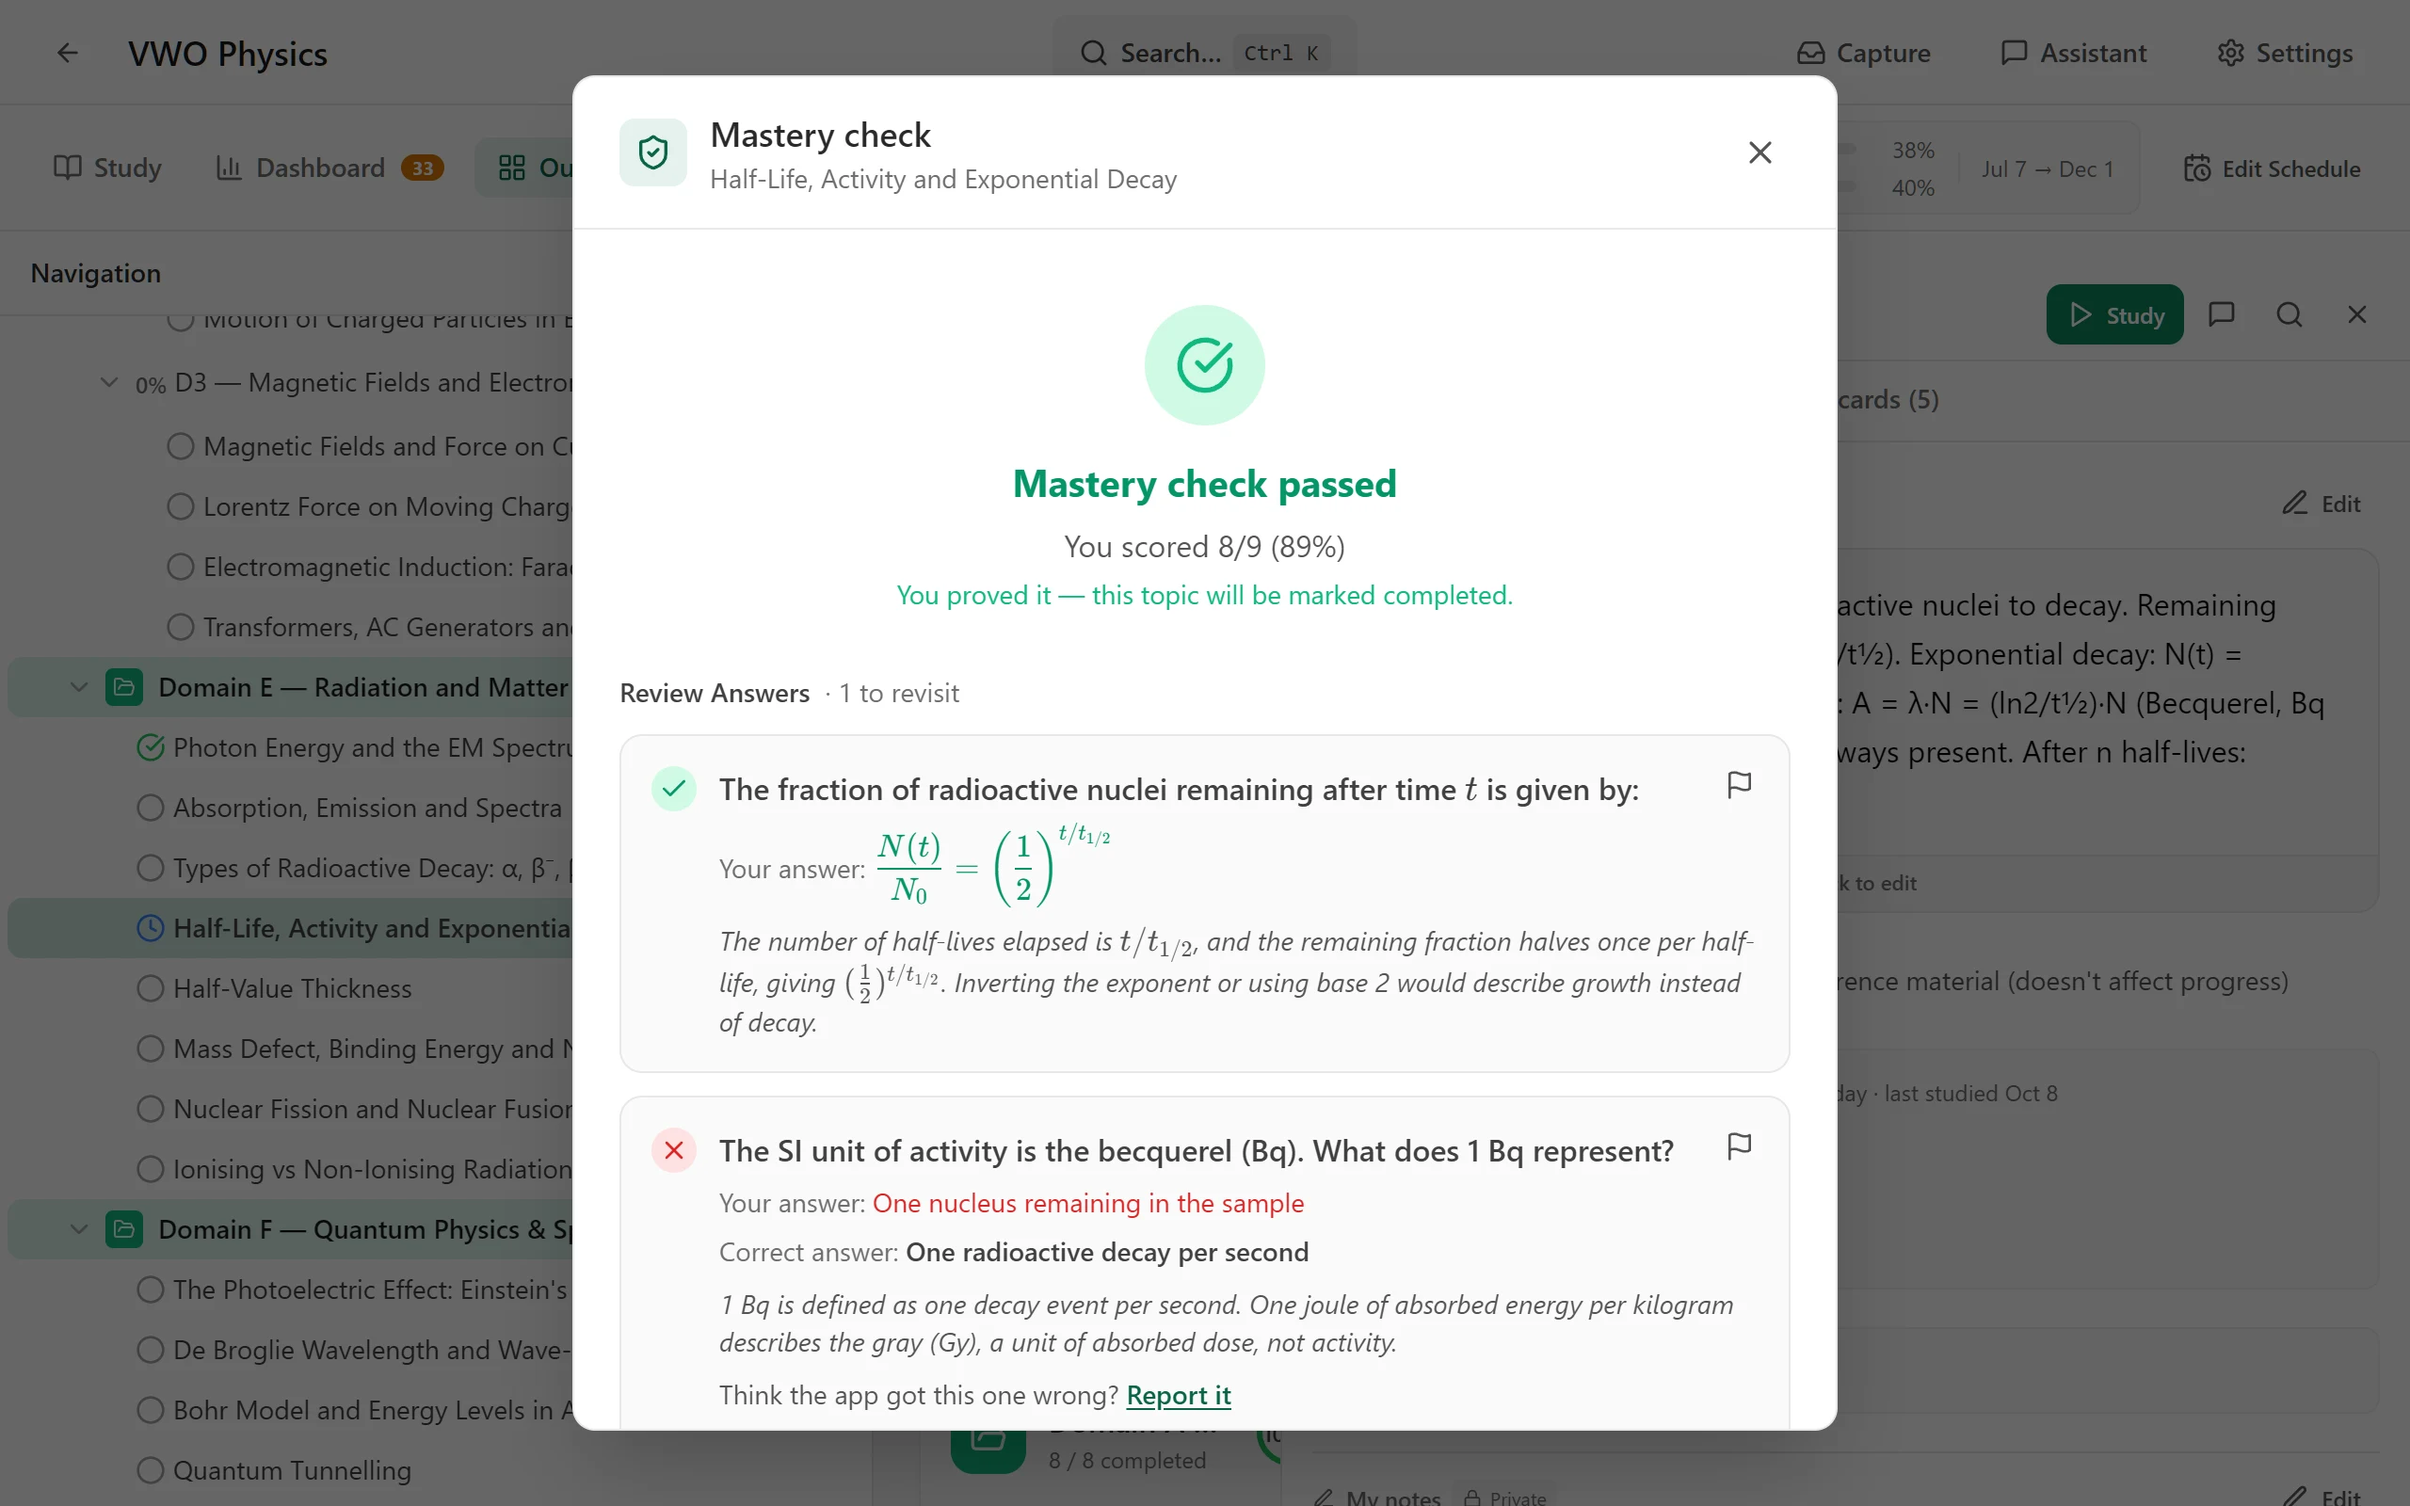
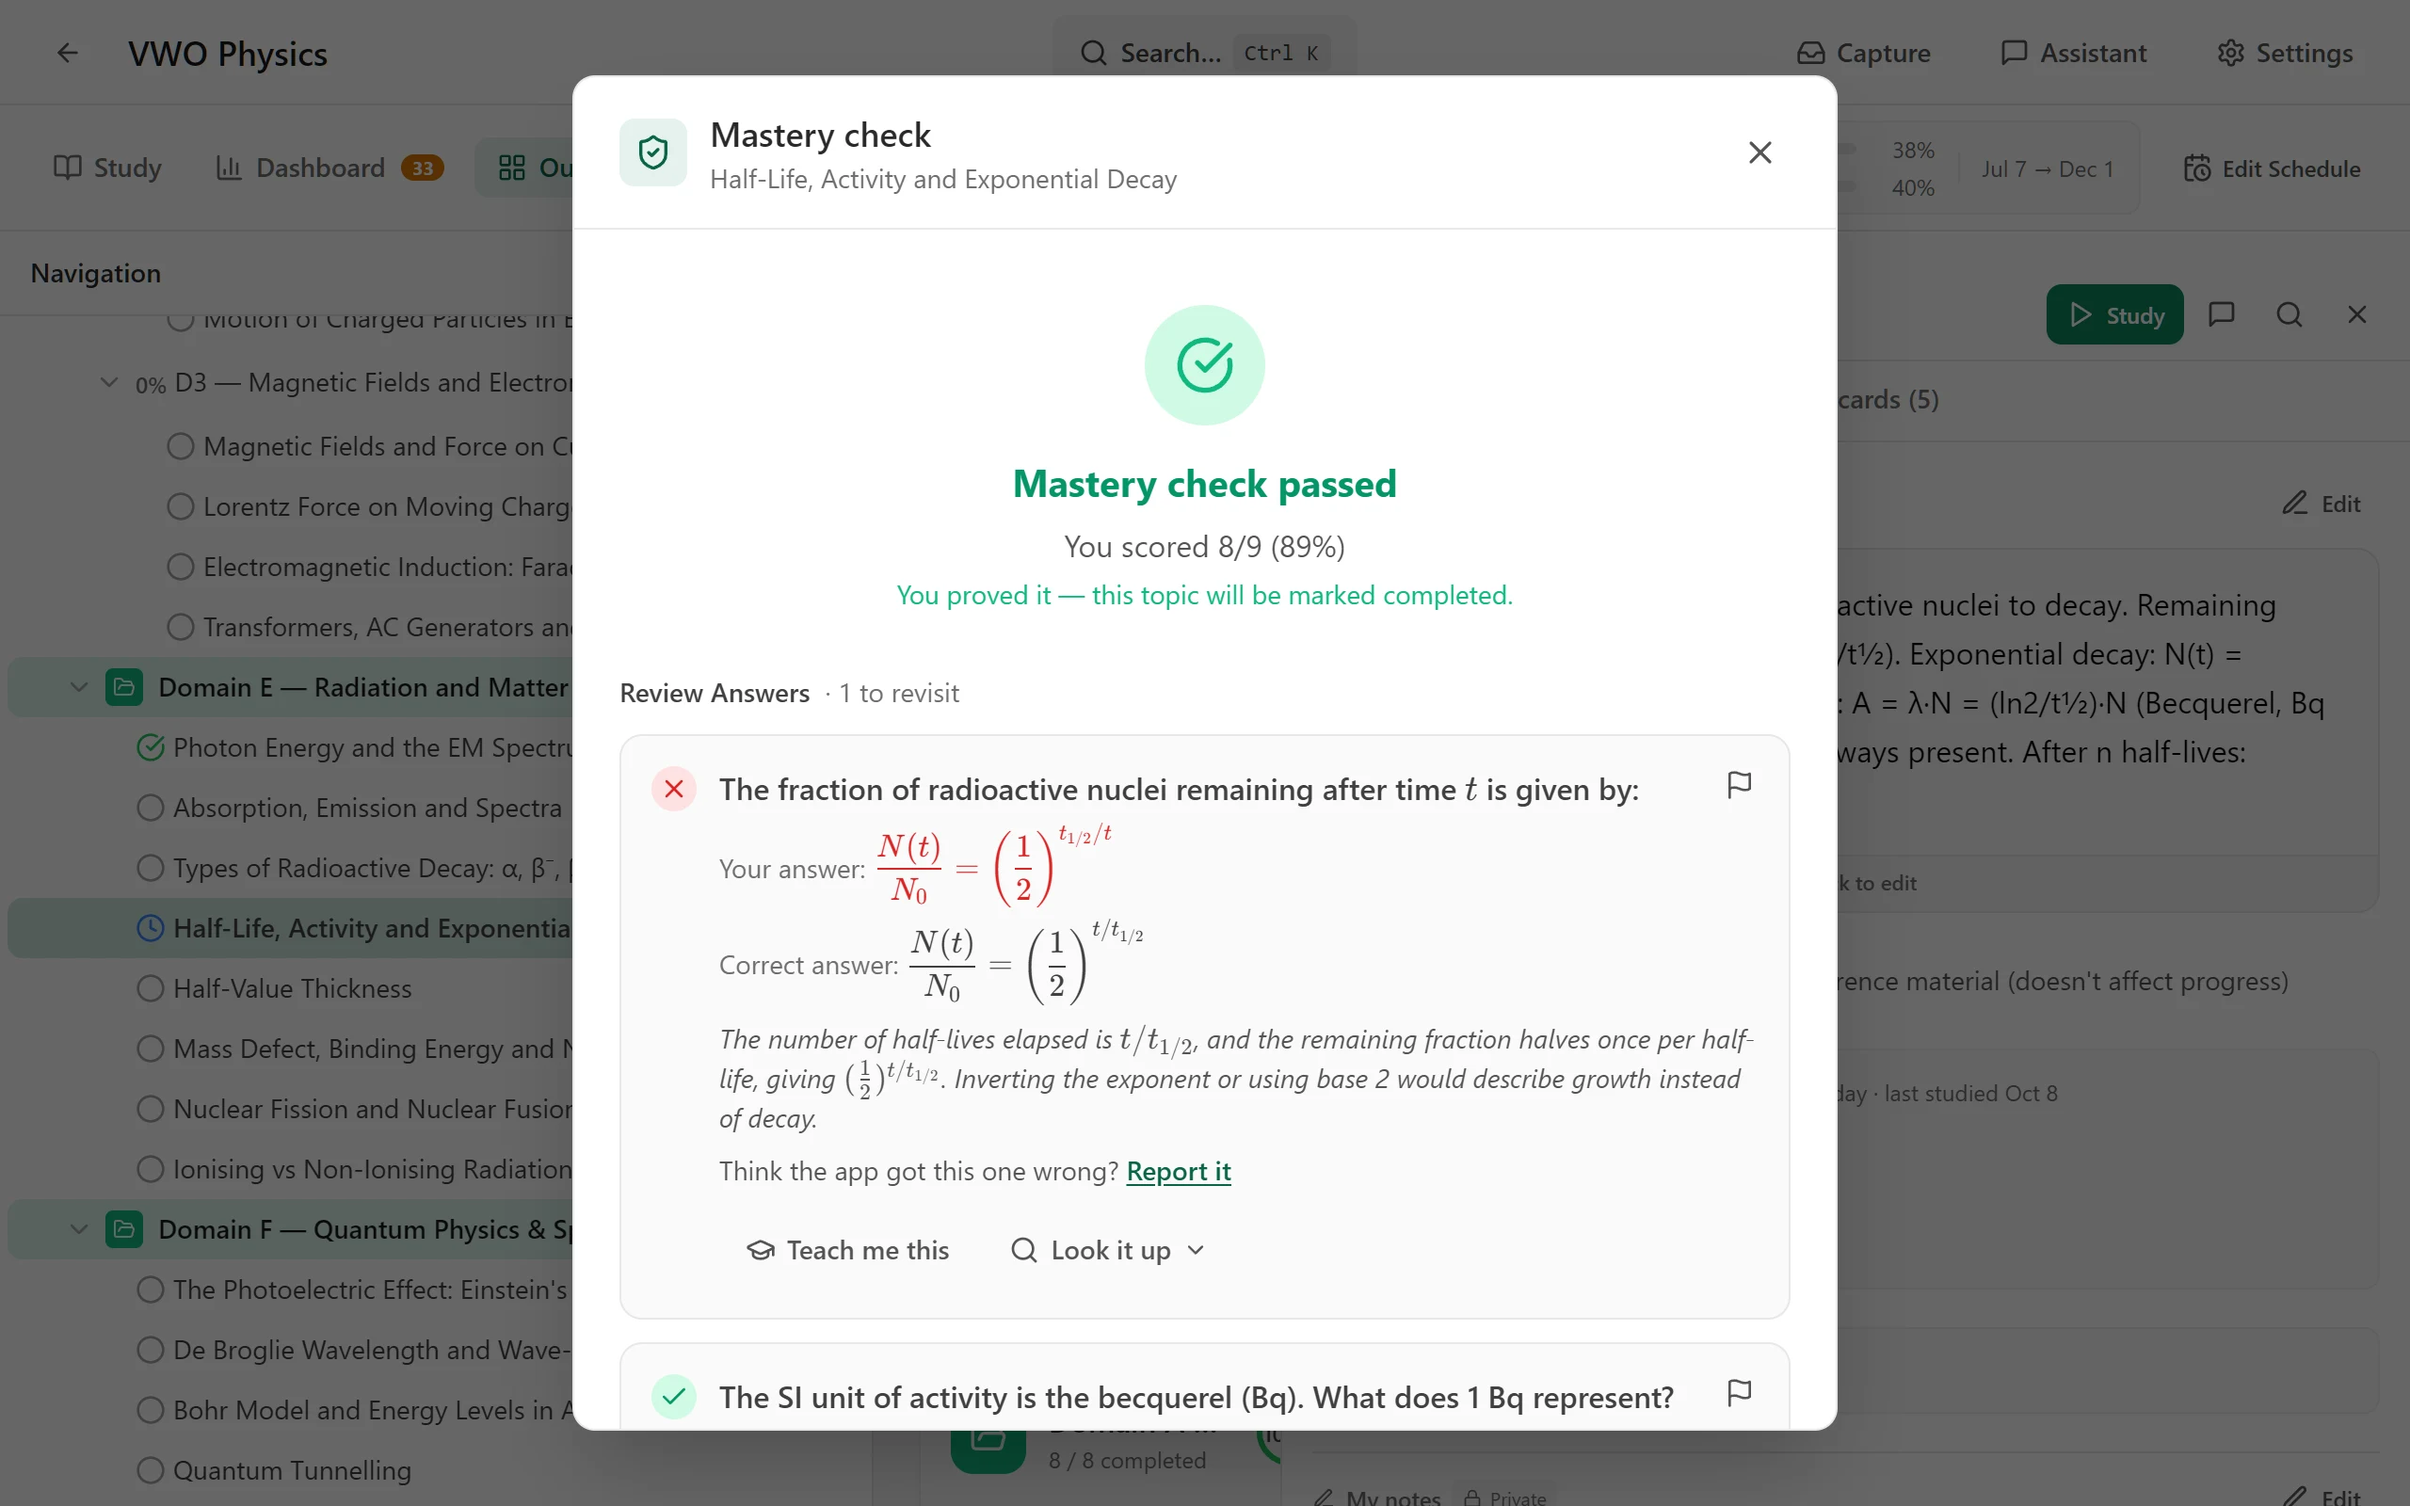
Show a wrong answer its explanation names
The prove picture answered the becquerel question wrong with an option its explanation does not mention; it now misses the decay formula by inverting the exponent, which the explanation addresses.

Changed region(s): [[0.25, 0.5625, 0.7188, 0.9375], [0.25, 0.5, 0.3125, 0.5312], [0.4375, 0.5312, 0.4688, 0.5625]]

diff --git a/README.md b/README.md
@@ -66,7 +66,7 @@ work an exercise on paper, photograph it and have it marked. Before you see a qu
 disputes is thrown out. That catches slips, not a misconception the model holds both times. You
 can always skip a topic; it then stays marked as skipped, not as known.
 
-![A passed mastery check, 8 of 9, with one worked answer and one wrong answer explained.](docs/screenshots/prove.webp)
+![A passed mastery check, 8 of 9, with the one wrong answer shown beside the right one and explained.](docs/screenshots/prove.webp)
 
 ### Remember
 
